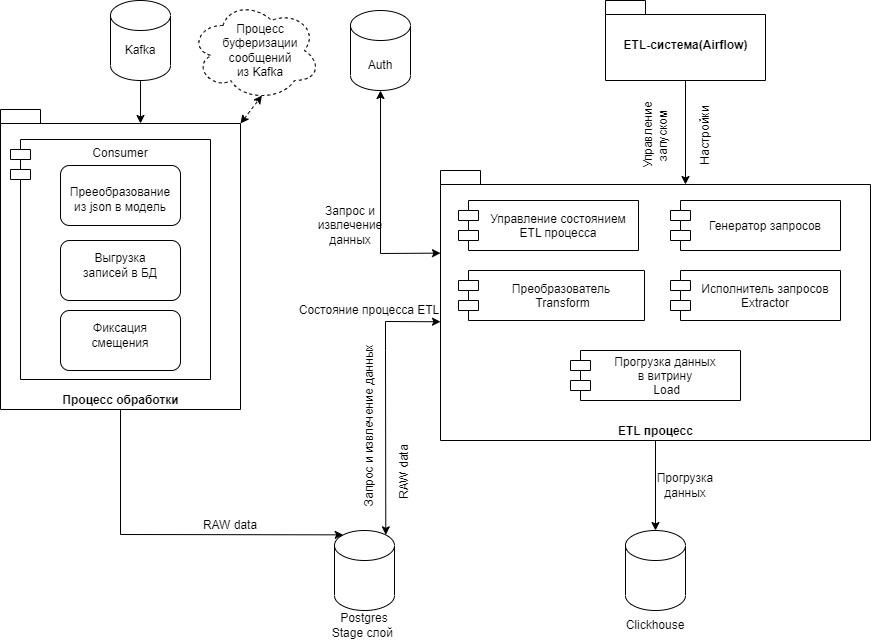
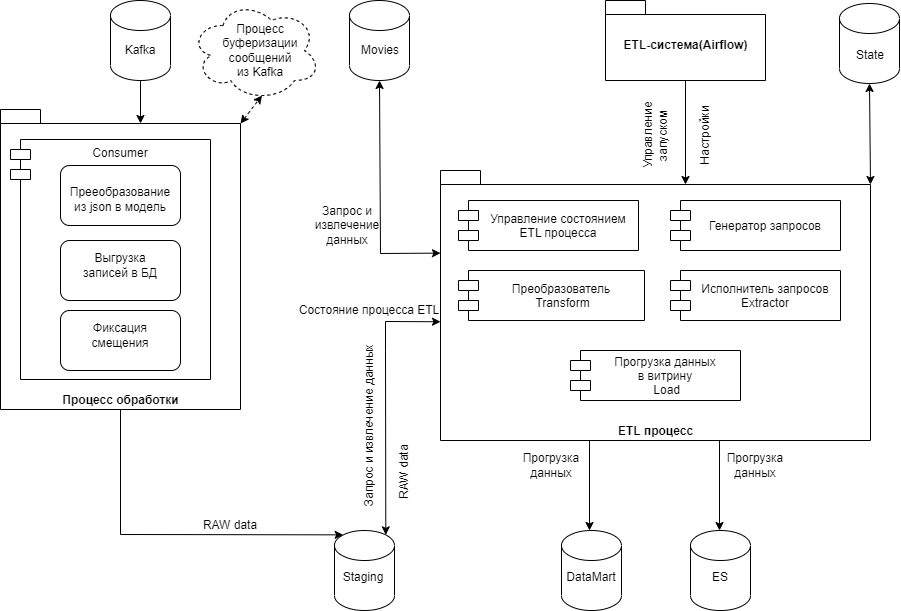
Filling in the base source code

diff --git a/src/extractors/postgres.py b/src/extractors/postgres.py
@@ -1,30 +1,45 @@
 import json
-import datetime
+import csv
 from contextlib import closing
-from pathlib import PurePath
+from pathlib import PurePath, Path
 
 import psycopg
 
 from utils import on_exception
 from utils import logger
-from core import PostgresExtractorSettings, SourcePostgresSettings
-from states import RedisState
-
+from core import PostgresExtractorSettings
+from states import BaseState
+from query_builder import QueryBuilderBase
+from typing import Type
 
 class PostgresExtractor:
     """Extract batches rows to files."""
     def __init__(
             self,
             settings: PostgresExtractorSettings,
-            state: RedisState,
+            storage_state: BaseState,
+            query_builder: Type[QueryBuilderBase],
+            file_path: Path,
 
     ) -> None:
         self._settings = settings
-        self._state = state
+        self._storage_state = storage_state
+        self._query_builder = query_builder
+        self._file_path = file_path
 
 
-    def _get_filname(self, date: datetime.date, step: int) -> str:
-        return f"{self._settings.source_name}-{strdate}-{state.step}.json"
+    def _get_filname(self, name: str, date: str, step: str) -> str:
+        return f"{name}-{date}-{step}.csv"
+
+    def _get_filepath(self, name: str, date: str, step: str) -> str:
+        file_name = self._get_filname(
+            name=name,
+            date=date,
+            step=step
+        )
+        return str(PurePath(self._file_path, file_name))
+
+
 
     @on_exception(
         exception=psycopg.DatabaseError,
@@ -36,39 +51,41 @@ class PostgresExtractor:
     )
     def extract(self):
         """Extract rows to files."""
-        with closing(
-                psycopg.connect(**self.settings.conn_params)
-        ) as conn:
-            with closing(conn.cursor()) as curs:
+        with psycopg.connect(**self._settings.conn_params()) as conn:
+            with conn.cursor() as curs:
 
-                state = self.state.get_state()
+                state = self._storage_state.retrieve()
+                self._settings.where_conditions = ..
+                sql = self._query_builder(settings=self._settings).build_query()
 
-                sql = open(self.settings.sql_file, encoding='utf-8').read()
-                sql = sql.format(
-                    date_from=state.date_from,
-                    date_to=state.date_to,
-                    from_schema=self.settings.schemas,
-                    offset=state.step,
-                )
                 curs.execute(sql)
 
-                while rows := curs.fetchmany(self.settings.batches):
+                while rows := curs.fetchmany(self._settings.batch_size):
                     if len(rows) == 0:
                         break
 
-                    file_name = f"{self.index_name}-{state.date_to}-{state.step}.json"
-                    file_path = PurePath(self.settings.extract_path, file_name)
+                    file_path = self._get_filepath(
+                        name=self._settings.source_name,
+                        date=str(state.date_from),
+                        step=str(state.step)
+                    )
+
                     with open(file_path, 'w', encoding='utf-8') as f:
-                        json.dump(rows, f)
+                        csvwriter = csv.writer(
+                            f,
+                            delimiter=',',
+                            quotechar='"', quoting=csv.QUOTE_MINIMAL
+                        )
+                        csvwriter.writerow(rows)
 
                     # Сохраняем каждый выполненный шаг.
                     state.step += 1
-                    self.state.set_state(state)
-                    logger.info("Extracted file %s", file_name)
+                    self._storage_state.save(state)
+                    logger.info("Extracted file %s", file_path)
 
                 # Сохраним step < 0.
                 # Установим дату началу, следующего запуска со вчера.
                 # И следующий запуск начнётся со вчерашней даты.
                 state.step = -1
                 state.date_from = state.date_to
-                self.state.set_state(state)
+                self._storage_state.save(state)

diff --git a/src/query_builder/sql/simple.py b/src/query_builder/sql/simple.py
@@ -1,10 +1,10 @@
-from core import SqlEventSubscription
-from .base import QueryBuilderBase
+from core import SqlExtractorSettings
+from query_builder import QueryBuilderBase
 
 
 class SimpleSQLQueryBuilder(QueryBuilderBase):
     """Простой генератор запросов."""
-    def __init__(self, settings: SqlEventSubscription):
+    def __init__(self, settings: SqlExtractorSettings):
         """
         Инициализирует объект построителя SQL-запросов.
 
@@ -13,27 +13,9 @@ class SimpleSQLQueryBuilder(QueryBuilderBase):
         """
         self._settings = settings
 
-    def _build_aggregations(self) -> str:
-        aggregation_strings = [
-            f"{function.upper()}({field}) AS {function}_{field}"
-            for function, field in self._settings.aggregations
-        ]
-        return ", ".join(aggregation_strings)
-
-    def _build_group_by(self) -> str:
-        return "GROUP BY " + ", ".join(self._settings.group_by)\
-            if self._settings.group_by else ""
-
     def _build_where_conditions(self) -> str:
         return "WHERE " + " AND ".join(self._settings.where_conditions)\
             if self._settings.where_conditions else ""
-
-    def _build_order_by(self) -> str:
-        order_strings = [
-            f"{field} {direction}" for field, direction
-            in self._settings.order_by
-        ]
-        return "ORDER BY " + ", ".join(order_strings) if order_strings else ""
 
     def build_query(self) -> str:
         """
@@ -44,12 +26,11 @@ class SimpleSQLQueryBuilder(QueryBuilderBase):
         """
         fields = ", ".join(self._settings.fields)\
             if self._settings.fields else "*"
-
         from_clause = f"FROM {self._settings.schema}.{self._settings.source_name}"
-
-        select_clause = f"SELECT {self._build_aggregations()}"\
+        select_clause = f"SELECT {fields}"\
             if self._settings.aggregations else f"SELECT {fields}"
+
         query = f"""{select_clause} {from_clause}
-        {self._build_where_conditions()}
-        {self._build_group_by()} {self._build_order_by()}"""
+            {self._build_where_conditions()}"""
+
         return query.replace('\n', '').strip()

diff --git a/src/extractors/env.py b/src/extractors/env.py
@@ -1,0 +1,33 @@
+from pydantic import BaseConfig, Field
+
+class Settings(BaseConfig):
+
+    kafka_host: str = Field("localhost", env="KAFKA_HOST")
+    kafka_port: str = Field("9092", env="KAFKA_PORT")
+
+    redis_host: str = Field("localhost", env="REDIS_HOST")
+    redis_port: int = Field(6379, env="REDIS_PORT")
+
+    group_id: str = Field("group_watching_movies", env="KAFKA_GROUP_ID")
+    topic: str = Field("watching_movies", env="KAFKA_TOPIC")
+    batch_timeout: int = Field(10, env="BATCH_TIMEOUT")  # in sec
+    batch_size: int = Field(10, env="BATCH_SIZE")
+
+    ch_host: str = Field("localhost", env="CLICKHOUSE_HOST")
+    ch_port: int = Field(18123, env="CLICKHOUSE_PORT")
+    ch_db: str = Field("movix_db", env="CLICKHOUSE_DATABASE")
+    ch_table: str = Field("watching_movies", env="CLICKHOUSE_TABLE")
+    ch_username: str = Field("movix", env="CLICKHOUSE_USERNAME")
+    ch_password: str = Field("qwe123", env="CLICKHOUSE_PASSWORD")
+
+    staging_host: str = Field("localhost", env="STAGING_HOST")
+    staging_port: int = Field(5432, env="STAGING_PORT")
+    staging_username: str = Field("etl", env="STAGING_USERNAME")
+    staging_password: str = Field("123qwe", env="STAGING_PASSWORD")
+    staging_dbname: str = Field("etl", env="STAGING_DBNAME")
+
+
+    @property
+    def kafka_server(self):
+        return f"{self.kafka_host}:{self.kafka_port}"
+

diff --git a/src/core/config.py b/src/core/config.py
@@ -13,13 +13,23 @@ class BaseExtractorSettings(BaseModel):
     fields: List[str] = []
 
 
-class PostgresExtractorSettings(BaseExtractorSettings):
+class SqlExtractorSettings(BaseExtractorSettings):
     """Специализированный класс настроек, для SQL."""
     schema: str = 'staging'
-    aggregations: List[Tuple[str, str]] = []
-    group_by: List[str] = []
     where_conditions: List[str] = []
-    order_by: List[Tuple[str, str]] = []
+
+
+class PostgresExtractorSettings(SqlExtractorSettings):
+    host: str
+    port: int
+    username: str
+    password: str
+    dbname: str
+    batch_size: int
+
+    @property
+    def conn_params(self):
+        return f"postgresql://{self.username}:{self.password}@{self.host}:{self.port}/{self.dbname}"
 
 
 @dataclasses.dataclass
@@ -30,9 +40,3 @@ class TransformSettings:
     schema: str = 'staging'
 
 
-@dataclasses.dataclass
-class SourcePostgresSettings:
-    host: str
-    port: int
-    username: str
-    password: str

diff --git a/src/query_builder/base.py b/src/query_builder/base.py
@@ -1,0 +1,15 @@
+import abc
+from core import BaseExtractorSettings
+
+class QueryBuilderBase(abc.ABC):
+
+    @abc.abstractmethod
+    def __init__(self, settings: BaseExtractorSettings):
+        """Строит запрос."""
+        pass
+
+
+    @abc.abstractmethod
+    def build_query(self) -> str:
+        """Строит запрос."""
+        pass

diff --git a/src/bin/run_pg_extractor.py b/src/bin/run_pg_extractor.py
@@ -1,0 +1,13 @@
+from extractors import PostgresExtractor
+from core import PostgresExtractorSettings
+
+if __main__='main':
+    settings = PostgresExtractorSettings(
+        source_type='postgres',
+        source_name='film_work',
+        s
+
+    )
+    PostgresExtractor(
+        settings=
+    )

diff --git a/src/core/__init__.py b/src/core/__init__.py
@@ -1,3 +1,3 @@
-from .config import BaseExtractorSettings, PostgresExtractorSettings
+from .config import BaseExtractorSettings, SqlExtractorSettings, PostgresExtractorSettings
 from .config import TransformSettings
 from .config import SourcePostgresSettings

diff --git a/src/query_builder/__init__.py b/src/query_builder/__init__.py
@@ -1,0 +1,2 @@
+from .base import QueryBuilderBase
+from .sql import SimpleSQLQueryBuilder

diff --git a/src/query_builder/sql/__init__.py b/src/query_builder/sql/__init__.py
@@ -1,0 +1,1 @@
+from .simple import SimpleSQLQueryBuilder

diff --git a/src/extractors/__init__.py b/src/extractors/__init__.py
@@ -1,0 +1,1 @@
+from .postgres import PostgresExtractor

diff --git a/README.md b/README.md
@@ -1,7 +1,7 @@
 ## ETL на стероидах
 
 ### Требования
-- Динамические запросы, чтобы не править всё время код».
+- Динамические запросы, чтобы не править всё время код.
 - Запустить обработку ETL.
 - Остановить обработку ETL. При этом нужно обработать оставшиеся записи.
 - Обновить настройки ETL-скрипта. Сюда входит любая метаинформация: название таблицы, какие поля доставать, какие события обрабатывать и другие настройки.
